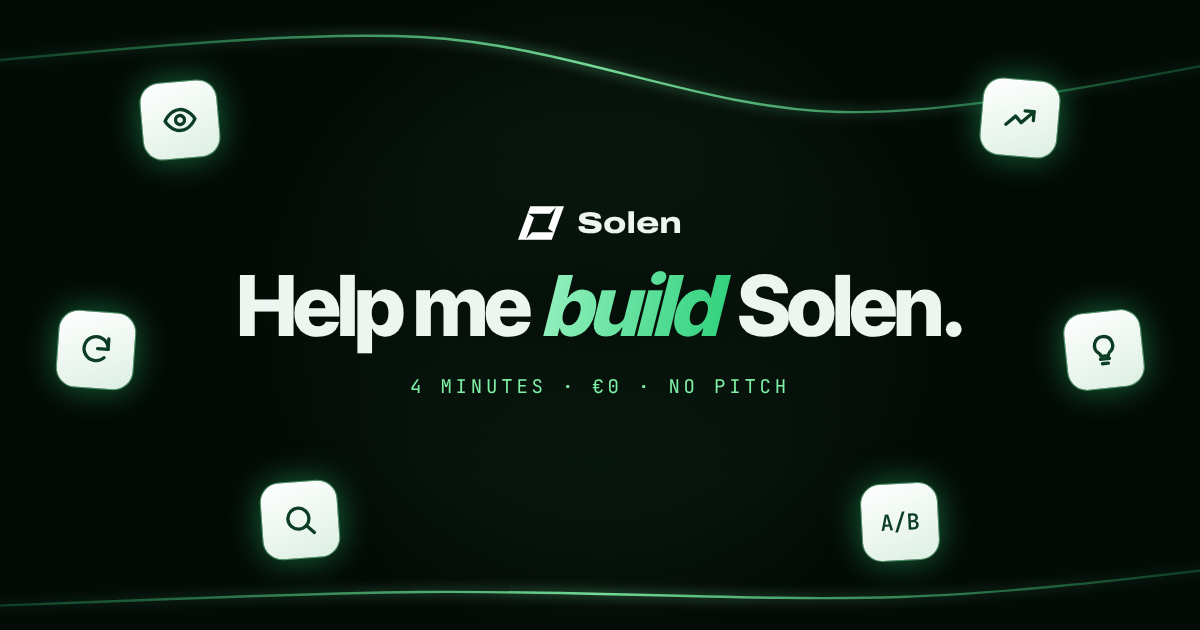
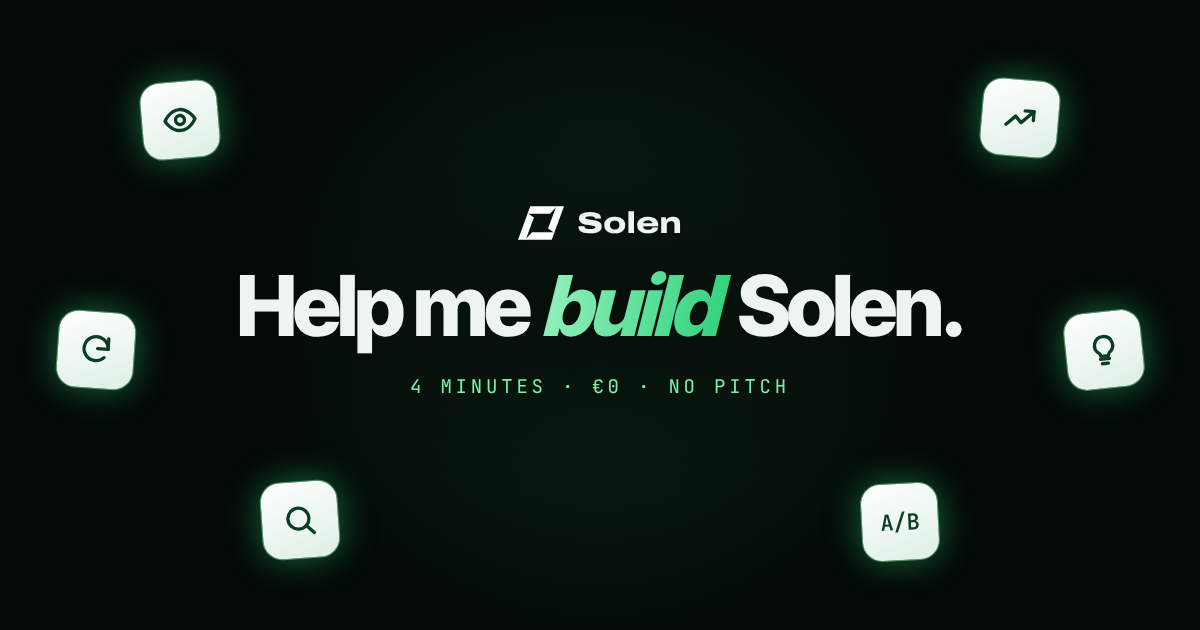
Form visuals: no green lines
Claude-Session: https://claude.ai/code/session_01BHXAVJFnX9CQrySXqS91xj

diff --git a/design/social/form/_src/cover.html b/design/social/form/_src/cover.html
@@ -52,10 +52,7 @@
 <script src="threads.js"></script>
 <script>
 // Deux courbes douces, comme sur les visuels X, qui ne passent pas sur le texte.
-drawThreads([
-  [[-90,50], [630,28], [1260,85], [1890,43]],
-  [[-90,464], [630,451], [1350,455], [1890,429]],
-]);
+drawThreads([]);  // Sans trait vert (demande de Thomas, 23/11).
 </script>
 </body>
 </html>

diff --git a/design/social/form/_src/share.html b/design/social/form/_src/share.html
@@ -52,10 +52,7 @@
 <script src="threads.js"></script>
 <script>
 // Deux courbes douces, comme sur les visuels X, qui ne passent pas sur le texte.
-drawThreads([
-  [[-60,65], [420,37], [840,112], [1260,56]],
-  [[-60,608], [420,592], [900,597], [1260,564]],
-]);
+drawThreads([]);  // Sans trait vert (demande de Thomas, 23/11).
 </script>
 </body>
 </html>
